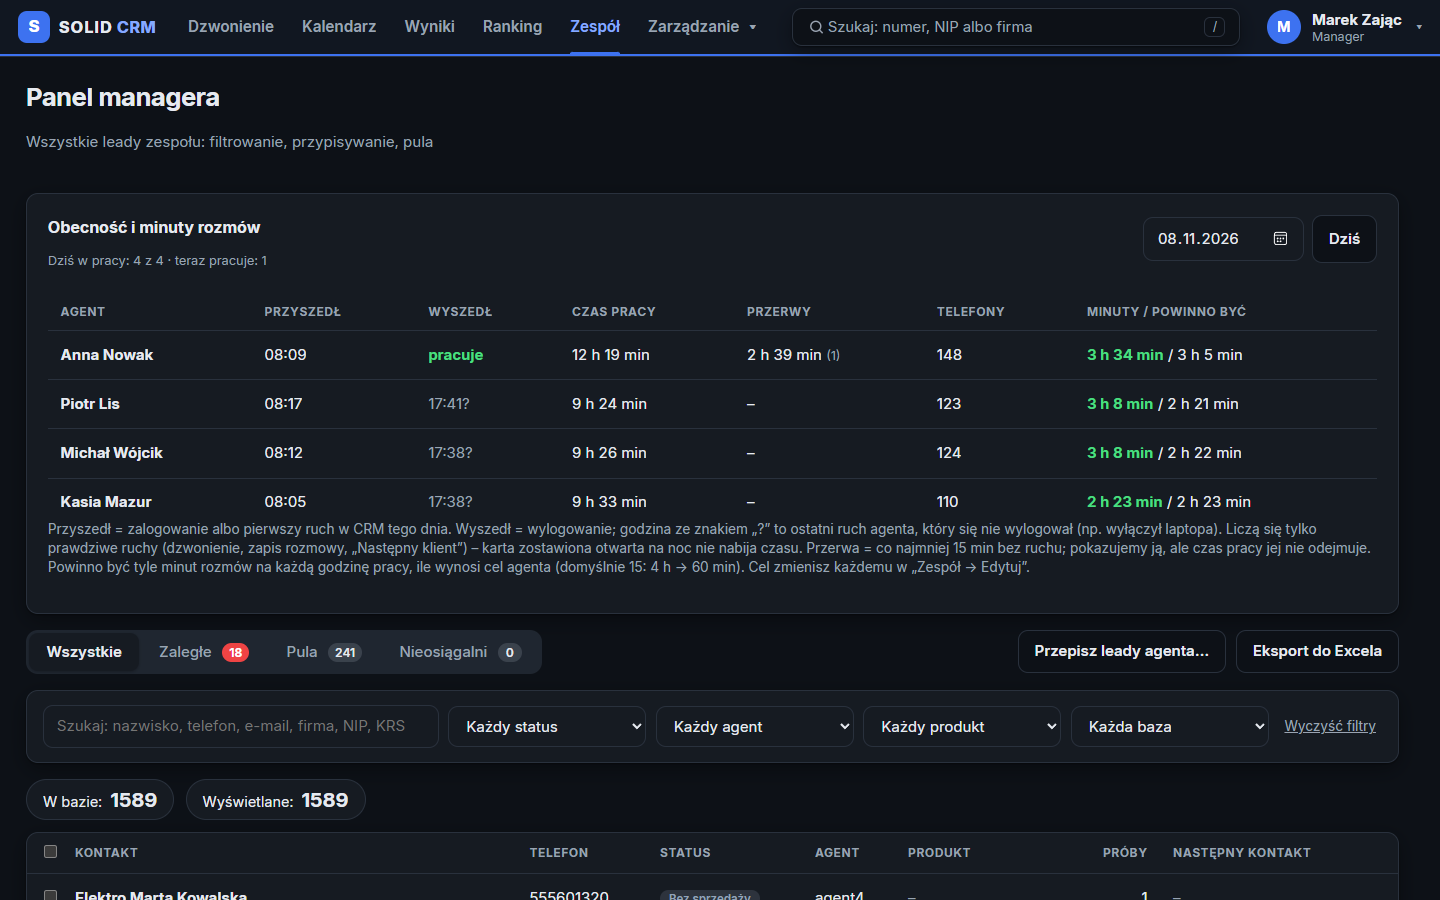
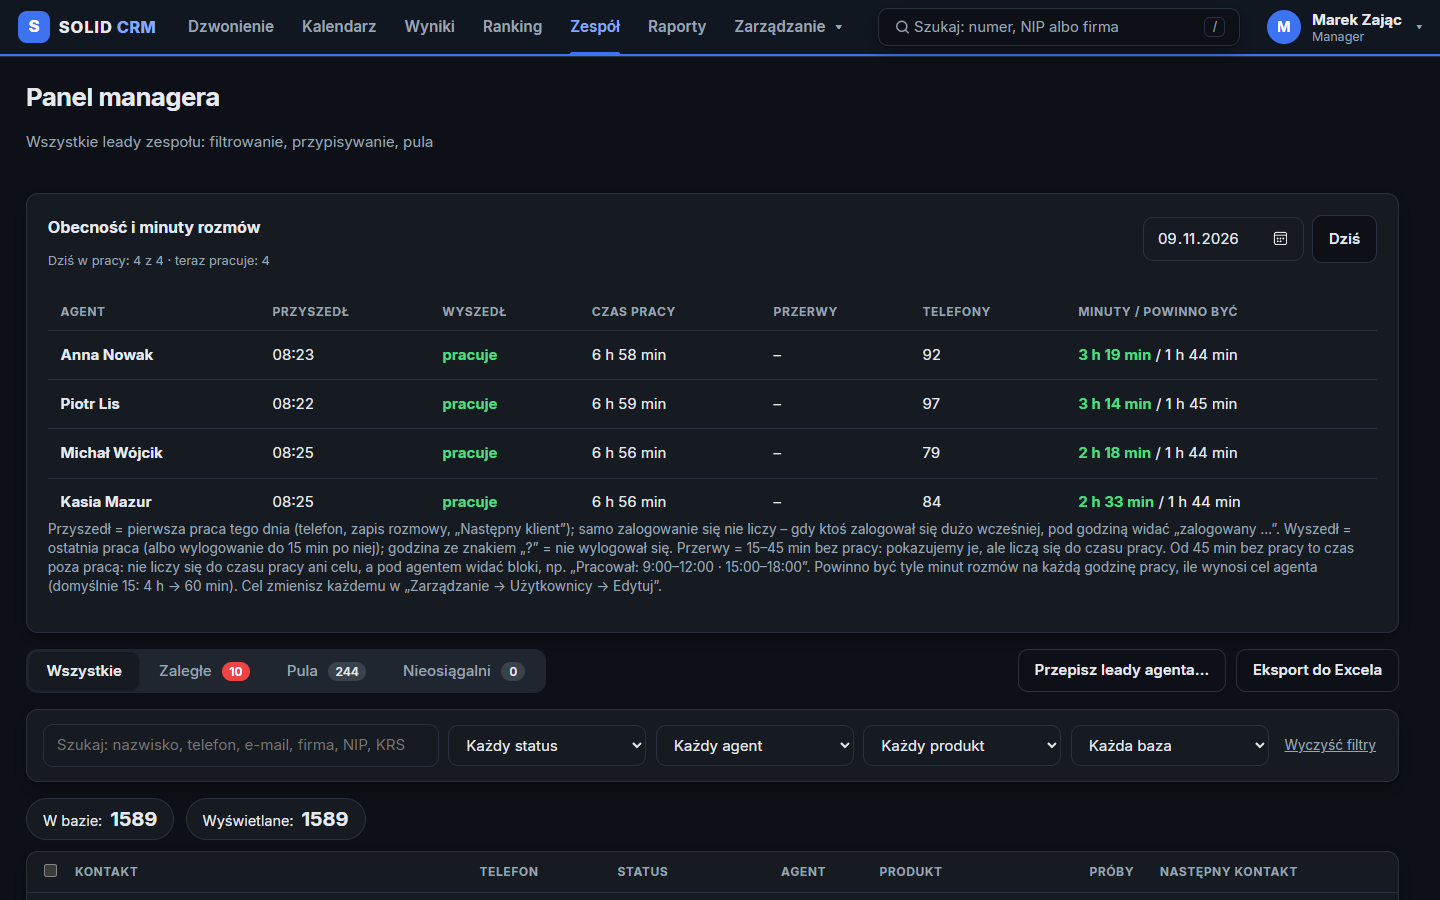
docs: fresh README screenshots, agent report and imported bases, sales points

diff --git a/README.md b/README.md
@@ -30,10 +30,13 @@ Solid CRM jest dla zespołu, który dzwoni do firm (np. z baz CEIDG i KRS) i spr
 - **Nagrywanie rozmów** (opcjonalne, domyślnie wyłączone): nagrania trafiają na Dysk Google firmy i są kasowane po ustawionej liczbie dni; odsłuchuje je manager.
 - **Prowizja** = zobowiązanie miesięczne × mnożnik (domyślnie × 6 przy 24 miesiącach, × 9 przy 36). Mnożniki ustawia manager.
 - **Minuty rozmów** liczy aplikacja Solid Dialer z rejestru połączeń telefonu. Cel: domyślnie **15 minut rozmów na każdą godzinę pracy**. Manager zmienia go całemu zespołowi w ustawieniach albo jednej osobie (Zarządzanie → Użytkownicy → „Edytuj”). Czas powyżej godziny pokazujemy jako „9 h 35 min”. Ranking jest po minutach.
-- **Dzień pracy**: zalogowanie = przyjście, wylogowanie = wyjście. Przerwy (co najmniej 15 minut bez ruchu) są tylko pokazywane, nie odejmuje się ich. Odświeżanie strony w tle nie liczy się jako praca.
+- **Dzień pracy**: liczy się od pierwszej prawdziwej pracy („Następny klient”, telefon, zapis rozmowy) do ostatniej. Samo zalogowanie to jeszcze nie praca (manager widzi tylko „zalogowany o …”). Przerwy 15–45 minut są pokazywane, a od 45 minut to czas poza pracą: odejmuje się go od czasu pracy i od celu minut. W „Zespół → Obecność” widać bloki pracy, np. „9:00–12:00 · 15:00–18:00”.
+- **Ponowne próby w dobrej porze**: gdy firma nie odebrała, kolejna próba wypada innego dnia o godzinie, o której firmy najczęściej odbierają (z historii telefonów zespołu).
 - Zasada nadrzędna: **klient nigdy nie zostaje bez następnego kroku**. Po wyczerpaniu prób klient wraca do puli, a po kilku agentach bez skutku trafia do „nieosiągalnych”.
 - **Raporty dla managera**: gdzie każdy agent gubi klientów (dodzwonienia, rozmowa → oferta, oferta → sprzedaż) z podpowiedzią, co poprawić; o której firmy najczęściej odbierają; powody odmów; oferty, które czekają bez odpowiedzi; ilu klientów będzie można przenieść w kolejnych miesiącach, gdy skończą im się umowy.
+- **Wszystko po agencie**: manager wybiera osobę i widzi całą jej pracę (dni, czas pracy, minuty, telefony, oferty, sprzedaż, każdą rozmowę) i klientów, których trzeba przejąć, także po jej odejściu. Całość pobiera do Excela.
 - Agent widzi swoich klientów i swoje wyniki. Manager widzi całą pracę zespołu (także agenta, który już odszedł), zarządza kontami, taryfami, zasadami i urządzeniami.
+- Krótka ściąga dla agenta i managera: [`docs/SCIAGA.md`](docs/SCIAGA.md).
 
 ## Modele
 
@@ -218,6 +221,9 @@ Praca agenta:
 | `GET /api/stats/` | statystyki: rozmowy, dodzwonienia, oferty, sprzedane, prowizja, minuty, wyniki agentów; okres `?days=` albo `?date_from=&date_to=`; manager: zespół (`?scope=me` = tylko jego praca), agent: tylko siebie |
 | `GET /api/leaderboard/` | ranking w okresie (minuty, rozmowy, zainteresowani, sprzedane, prowizja); bez danych klientów; agent z wyłączonym podglądem dostaje **403** |
 | `GET /api/reports/` | tylko manager: raporty za `?days=` (domyślnie 30) – lejek osób z podpowiedzią, godziny odbierania, powody odmów, oferty bez odpowiedzi, końce umów |
+| `GET /api/reports/agent/` | tylko manager: „Wszystko po agencie” – praca jednej osoby dzień po dniu, rozmowy i klienci do przejęcia (`?user=ID`; `&file=xlsx` = plik Excela) |
+| `GET /api/batches/overview/` | tylko manager: wgrane bazy (dla kogo, ile firm, ile jeszcze bez telefonu) |
+| `DELETE /api/batches/{id}/` | tylko manager: „Usuń tę bazę” – usuwa firmy, do których nikt nie dzwonił; firmy z historią zostają |
 | `GET /api/settings/`, `GET /api/offer-config/` | zasady pracy i ustawienia ofert (czyta każdy zalogowany) |
 | `GET /api/me/`, `POST /api/me/password/`, `POST/DELETE /api/me/avatar/` | dane zalogowanego, zmiana hasła, zdjęcie profilowe |
 | `POST /api/batches/import/` | import bazy z `.xlsx` (pole `file`, opcjonalnie `name`, `product`, `assigned_to`); odpowiedź to raport |
@@ -313,7 +319,7 @@ Agenci nie muszą znać żadnych kombinacji klawiszy. Pojedyncze klawisze (`N` n
 
 Po lewej: „Następny klient”, „+ Nowy kontakt”, „Zadzwoń na numer”, „Produkty i kanały TV”, grupy klientów (oferty, oddzwonienia, nie odebrali, nowi), ile zostało w bazie i lista „Moi klienci / Historia dziś”. Na środku karta klienta: najpierw **nazwa firmy**, potem numer z przyciskiem „Zadzwoń”, osoba, e-mail, a NIP i adres małym drukiem. Pole **„Stałe informacje o kliencie”** widzi cały zespół, z dopiskiem, kto i kiedy je zmienił. Po prawej panel „Dziś” (telefony, rozmowy, oferty, sprzedane, prowizja, minuty w tej godzinie wobec celu), terminy na dziś i „Solid info”.
 
-Wynik rozmowy wybiera się kafelkiem albo klawiszem `1`–`8`. Zapis można cofnąć przyciskiem „Cofnij” przez 10 sekund. Po „Zapisz i dalej” od razu otwiera się następny klient, zawsze od góry karty. Przy połączonym telefonie CRM **sam dzwoni do następnego klienta po 4 sekundach**: nad numerem jest odliczanie i przycisk „Wstrzymaj” (albo Esc). Można to wyłączyć w „Moich ustawieniach”.
+Wynik rozmowy wybiera się kafelkiem albo klawiszem `1`–`8`. Zapis można cofnąć przyciskiem „Cofnij” przez 10 sekund. Po „Zapisz i dalej” od razu otwiera się następny klient, zawsze od góry karty. Przy połączonym telefonie CRM **sam dzwoni do następnego klienta po 4 sekundach**: nad numerem jest odliczanie i przycisk „Wstrzymaj” (albo Esc). Można to wyłączyć w „Moich ustawieniach”. Gdy klient po ofercie prosi o oddzwonienie, wysłana oferta zostaje widoczna na karcie, w przypomnieniu i na liście (zielona plakietka), więc agent od razu wie, o czym była mowa.
 
 Na górze karty jest pasek z powodem telefonu (np. „Follow-up po wysłanej ofercie”, z tym, co i kiedy wysłano), a przy leadzie przepisanym od innego agenta dopisek „↪ Przepisany od …”.
 
@@ -381,11 +387,19 @@ Strona „co poprawić, żeby zespół sprzedawał więcej” za ostatnie 7, 30 
 
 ![Koniec umowy](docs/raporty_umowy.png)
 
+**Wszystko po agencie**: wybór osoby, sześć liczb na górze (dni pracy, minuty rozmów wobec celu, telefony, oferty i sprzedaż, prowizja, klienci do przejęcia), niżej tabela dzień po dniu, każda rozmowa i lista klientów, których ta osoba prowadzi teraz. „Pobierz do Excela” zapisuje to samo w pliku.
+
+![Wszystko po agencie](docs/raporty_agent.png)
+
 ### Zarządzanie (manager)
 
 **Import / eksport baz** z wyborem „Dla kogo jest ta baza”:
 
 ![Import i eksport](docs/import.png)
+
+Niżej **Wgrane bazy**: dla kogo jest baza, ile ma firm i do ilu jeszcze nikt nie dzwonił. „Usuń tę bazę” (z potwierdzeniem: trzeba wpisać USUŃ) kasuje tylko firmy bez żadnej rozmowy. Firmy z rozmowami, ofertami albo sprzedażą zostają w CRM z całą historią.
+
+![Wgrane bazy](docs/import_bazy.png)
 
 **Taryfy i produkty**: ceny bez i z promocją, inne promocje do wyboru, dopłata za kolejny numer i „Informacje dla agenta”. „Pobierz plik taryf” i „Wgraj plik taryf…” przenoszą cennik przez Excela (ta sama nazwa = nowe ceny, nowa nazwa = nowa taryfa). „Dodaj brakujące z wzornika” uzupełnia cennik, „Wyczyść wszystkie” zaczyna od zera. Sprzedawany produkt się wyłącza, a „Usuń” jest dla produktu dodanego przez pomyłkę.
 
@@ -438,7 +452,7 @@ Lista leadów w szablonie Django (`/crm/leads/`, strona z Labu 3, ma tylko jasny
 python manage.py test
 ```
 
-**544 testy** `APITestCase` w szesnastu plikach w `crm/`:
+**581 testów** `APITestCase` w dwudziestu plikach w `crm/`:
 
 | Plik | Co sprawdza |
 |---|---|
@@ -458,6 +472,10 @@ python manage.py test
 | `test_edit.py` | poprawianie komentarza i sprawy, układ ekranu Dzwonienie |
 | `test_devices.py` | aktywacja i blokada urządzeń |
 | `test_hosting.py` | tryb serwera (`start_firm`, brak kont demo, limit logowania, pobieranie dialera) |
+| `test_reports.py` | raporty: lejek osób, godziny odbierania, powody odmów, oferty bez odpowiedzi, końce umów |
+| `test_agent_report.py` | „Wszystko po agencie” (także Excel) i „Usuń tę bazę” |
+| `test_contract.py` | koniec umowy u obecnego operatora i samo oddzwonienie w dniu, od którego wolno przenieść numer |
+| `test_phrases.py` | powody i gotowe przyciski ustawiane przez managera, powody „Pomiń firmę” |
 
 ## Struktura projektu
 

diff --git a/docs/DLACZEGO_WARTO.md b/docs/DLACZEGO_WARTO.md
@@ -14,7 +14,10 @@
 ## Żaden klient się nie gubi
 
 - Każdy klient ma zawsze następny krok, a follow-upy ofert same wracają na górę kolejki.
-- Kalendarz pokazuje nazwy firm, a przed umówioną rozmową telefon sam wysyła klientowi SMS z przypomnieniem.
+- **SMS przed umówionym telefonem**: telefon agenta sam przypomina klientowi o rozmowie, więc więcej osób odbiera follow-up po ofercie.
+- **Przypomnienie o follow-upie** wyskakuje agentowi na czas, z dźwiękiem, i od razu otwiera klienta z ofertą.
+- **„Mam umowę w innej sieci” to nie koniec**: CRM sam umawia telefon na dzień, od którego wolno przenieść numery.
+- Kalendarz pokazuje nazwy firm, nie same numery.
 
 ![Kalendarz](calendar.png)
 
